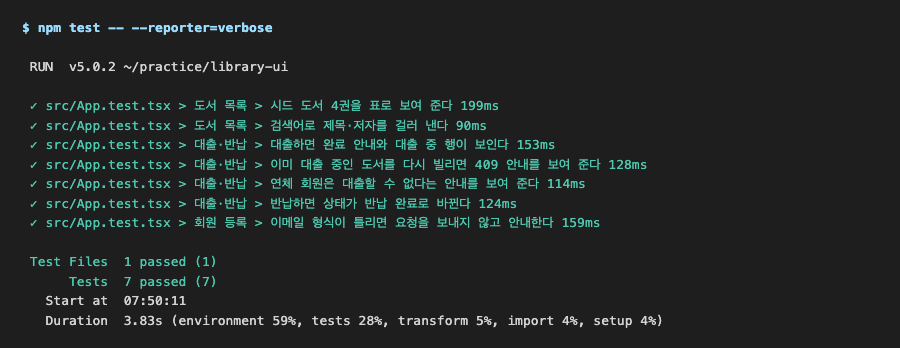
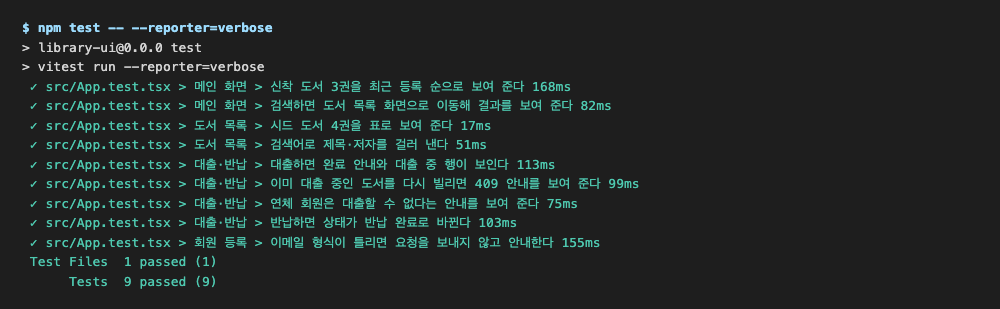
feat(java): 과제 2-2 메인 화면·검색 + 2-3 실제 API 캡처 (재검증)

Changed region(s): [[0.0311, 0.2621, 0.7467, 0.932], [0.0, 0.1456, 0.3422, 0.233], [0.0, 0.0583, 0.3111, 0.1165]]

diff --git a/wiki/guide-java-practice-library-merge.md b/wiki/guide-java-practice-library-merge.md
@@ -11,7 +11,7 @@ updated: 2026-09-29
 
 > **이 과제의 목표**: [[guide-java-practice-spring-library]](과제 2)의 Spring API와 [[guide-java-practice-library-ui]](과제 2-2)의 React 화면을 **하나의 서비스로 합칩니다.** 개발할 때는 두 서버를 띄워 Vite 프록시로 잇고, 화면에 필요한 API 하나를 Spring에 추가하고, 브라우저를 자동으로 조작하는 Playwright E2E 테스트로 흐름 전체를 지킵니다. 마지막에는 화면을 jar 안에 넣어 `java -jar` 하나로 UI와 API를 함께 서비스합니다.
 >
-> **선수 학습**: 과제 2의 `library` 프로젝트(포트 8090, `h2` 프로파일, 테스트 9개 통과)와 과제 2-2의 `library-ui` 프로젝트(목업 모드 동작, 테스트 7개 통과)가 같은 디렉터리 아래 형제로 있어야 합니다.
+> **선수 학습**: 과제 2의 `library` 프로젝트(포트 8090, `h2` 프로파일, 테스트 9개 통과)와 과제 2-2의 `library-ui` 프로젝트(목업 모드 동작, 테스트 9개 통과)가 같은 디렉터리 아래 형제로 있어야 합니다.
 
 ---
 
@@ -48,8 +48,8 @@ updated: 2026-09-29
 | M2 | 화면을 다른 출처에서 서비스하는 경우를 위해 `/api/**`에 한해 `http://localhost:5173`의 GET·POST를 허용하는 CORS 설정을 둡니다 | 사전 요청 200, 다른 출처 403 |
 | M3 | `GET /api/members/{id}/loans` — 회원의 대출 목록을 최신순(대출 번호 역순)으로, 반납 건까지 돌려줍니다. 없는 회원이면 404 `MEMBER_NOT_FOUND` | API 테스트 2개 |
 | M4 | 실제 API로 대출 → 중복 대출 → 반납 시나리오가 화면에서 동작하고, 409 안내가 과제 2-2의 한글 문구로 보입니다 | 화면 확인 |
-| M5 | Playwright E2E 테스트 3개(검색, 대출→409→반납, 연체)가 개발 모드와 jar 배포 양쪽에서 통과합니다. 여러 번 실행해도 결과가 같습니다 | `npx playwright test` |
-| M6 | `./mvnw package`가 화면을 빌드해 jar에 넣고, `java -jar` 하나로 `/`·`/loans`·`/members/new`(화면)와 `/api/**`(API)가 모두 8090에서 서비스됩니다 | curl 상태 코드 |
+| M5 | Playwright E2E 테스트 3개(메인 검색, 대출→409→반납, 연체)가 개발 모드와 jar 배포 양쪽에서 통과합니다. 여러 번 실행해도 결과가 같습니다 | `npx playwright test` |
+| M6 | `./mvnw package`가 화면을 빌드해 jar에 넣고, `java -jar` 하나로 `/`·`/books`·`/loans`·`/members/new`(화면)와 `/api/**`(API)가 모두 8090에서 서비스됩니다 | curl 상태 코드 |
 
 두 프로젝트의 최종 구조입니다. 이 과제에서 **추가하거나 바꾸는 파일에만** 표시를 붙였습니다.
 
@@ -491,21 +491,49 @@ npm run dev
   ➜  Network: use --host to expose
 ```
 
-과제 2-2의 `dev:mock`과 달리 `ready` 줄에 `mock`이 없습니다. 브라우저에서 `http://localhost:5173/loans`를 열고 회원 번호 `1`, 도서 `1. 이펙티브 자바`로 **대출**을 누릅니다.
+과제 2-2의 `dev:mock`과 달리 `ready` 줄에 `mock`이 없습니다. 먼저 화면이 H2의 데이터를 읽는지 확인하기 위해, 새 터미널에서 도서를 한 권 curl로 등록합니다. 목업에는 없는 도서입니다.
+
+```bash
+curl -s -w '\n%{http_code}\n' -X POST http://localhost:8090/api/books -H 'Content-Type: application/json' -d '{"isbn":"9791162242025","title":"모던 자바 인 액션","author":"라울-게이브리얼 우르마"}'
+```
+
+```text
+예상 결과
+{"id":5,"isbn":"9791162242025","title":"모던 자바 인 액션","author":"라울-게이브리얼 우르마"}
+201
+```
+
+> **Windows**: PowerShell에서는 1-2의 안내처럼 `curl.exe`로 실행합니다. JSON 따옴표가 번거로우면 Git Bash에서 실행하거나, Swagger UI(`http://localhost:8090/swagger-ui.html`)의 **도서 등록**으로 같은 본문을 보냅니다.
+
+브라우저에서 `http://localhost:5173/`을 엽니다.
+
+![실제 API와 연결된 메인 화면](assets/practice/merge/06-home-real.png)
+
+*그림 1. 실제 API 연결 메인 — 방금 curl로 등록한 5번 도서가 신착 도서 맨 앞에 보임*
+
+신착 도서 맨 앞의 "모던 자바 인 액션"은 curl로 Spring에 등록한 도서입니다. 화면 코드는 과제 2-2 그대로인데, 목업 대신 `GET /api/books`의 실제 응답으로 신착 도서를 골랐습니다. 메뉴 오른쪽에 "목업 데이터" 표시가 없는 것으로도 실제 API 모드임을 알 수 있습니다. 검색창에 `자바`를 넣고 **검색**을 누릅니다.
+
+![실제 API의 검색 결과](assets/practice/merge/07-search-real.png)
+
+*그림 2. 실제 API 검색 — `/books?keyword=자바`가 H2에서 3권을 찾음*
+
+목업에서는 2권이던 결과가 3권입니다. 검색어가 프록시를 거쳐 Spring의 `findByTitleContainingOrAuthorContaining`까지 전달돼, H2에 새로 들어간 5번 도서까지 찾았습니다.
+
+이제 대출 흐름을 확인합니다. `http://localhost:5173/loans`를 열고 회원 번호 `1`, 도서 `1. 이펙티브 자바`로 **대출**을 누릅니다.
 
 ![실제 API와 연결된 대출 화면](assets/practice/merge/01-integrated.png)
 
-*그림 1. 실제 API 연결 — 메뉴 오른쪽에 "목업 데이터" 표시가 없고, 대출 목록은 H2 DB의 데이터*
+*그림 3. 실제 API 연결 — 메뉴 오른쪽에 "목업 데이터" 표시가 없고, 대출 목록은 H2 DB의 데이터*
 
-화면 모양은 과제 2-2와 같지만, 대출 번호·날짜가 모두 Spring이 H2에 저장한 값입니다. 메뉴 오른쪽의 "목업 데이터" 표시가 사라진 것으로 실제 API 모드임을 알 수 있습니다. 같은 상태에서 **대출**을 한 번 더 누릅니다.
+화면 모양은 과제 2-2와 같지만, 대출 번호·날짜가 모두 Spring이 H2에 저장한 값입니다. 같은 상태에서 **대출**을 한 번 더 누릅니다.
 
 ![실제 API의 409 안내](assets/practice/merge/02-409-real.png)
 
-*그림 2. 중복 대출 — Spring이 돌려준 409 `BOOK_ALREADY_LOANED`를 화면이 한글 안내로 표시*
+*그림 4. 중복 대출 — Spring이 돌려준 409 `BOOK_ALREADY_LOANED`를 화면이 한글 안내로 표시*
 
 이번 409는 목업이 아니라 과제 2의 `LoanService`가 R3 위반으로 던진 `LibraryException`이 `GlobalExceptionHandler`를 거쳐 나온 응답입니다. 목업과 실제 서버가 같은 `code`를 쓰기로 약속했기 때문에 화면 코드는 한 줄도 바꾸지 않았습니다. 이어서 대출 목록의 **반납**을 누르면 "반납 완료"로 바뀝니다.
 
-터미널 2에는 1단계에서 넣은 프록시 로그가 요청마다 찍혀 있습니다.
+터미널 2에는 1단계에서 넣은 프록시 로그가 요청마다 찍혀 있습니다. 아래는 `/loans`를 연 뒤의 줄만 옮긴 것입니다(그 앞에는 메인·검색 화면이 부른 `GET /api/books`, `GET /api/books?keyword=%EC%9E%90%EB%B0%94` 줄이 있습니다).
 
 ```text
 예상 결과
@@ -520,7 +548,7 @@ npm run dev
 
 ![프록시 로그](assets/practice/merge/03-proxy-log.png)
 
-*그림 3. 터미널 2의 프록시 로그 — 화면의 요청이 8090으로 전달되고 돌아온 상태 코드*
+*그림 5. 터미널 2의 프록시 로그 — 화면의 요청이 8090으로 전달되고 돌아온 상태 코드*
 
 한 줄이 요청 하나입니다. 대출(201) → 목록 갱신 → 중복 대출(409) → 반납(200) → 목록 갱신 순서가 화면에서 누른 순서와 같습니다. 첫 두 줄에서 `GET /api/books`가 두 번 나가는 것은 버그가 아닙니다 — 개발 모드의 React `StrictMode`는 부수 효과를 잘못 짠 코드를 드러내려고 `useEffect`를 일부러 두 번 실행합니다. 배포용 빌드에서는 한 번만 나갑니다.
 
@@ -537,7 +565,7 @@ npm run dev
 | 테스트 | 도구 | 무엇을 띄우나 | 무엇을 지키나 | 개수 |
 |------|------|------|------|------|
 | API 테스트 | JUnit + MockMvc | Spring 컨텍스트 (포트 없음) | 업무 규칙·상태 코드 | 11 |
-| 화면 테스트 | Vitest + Testing Library | jsdom + 목업 | 화면 동작·안내 문구 | 7 |
+| 화면 테스트 | Vitest + Testing Library | jsdom + 목업 | 화면 동작·안내 문구 | 9 |
 | E2E 테스트 | Playwright | 실제 브라우저 + 두 서버 | 화면과 API의 **약속**(경로·JSON 모양·오류 코드) | 3 |
 
 화면 테스트는 목업이 서버와 같다고 **가정**하고, API 테스트는 화면이 무엇을 부르는지 **모릅니다.** 둘 사이의 약속이 어긋나는 것(예: 서버가 `bookTitle`을 `title`로 바꿈)은 E2E만 잡을 수 있습니다.
@@ -571,19 +599,21 @@ export default defineConfig({
 })
 ```
 
-E2E 테스트 파일입니다. 요소는 Testing Library와 같은 방식(역할·라벨·보이는 글자)으로 찾습니다. 두 번째 테스트는 빌린 도서를 마지막에 반납하므로 **몇 번을 다시 실행해도** 같은 결과가 나옵니다 — 공유 DB를 쓰는 E2E 테스트는 자기가 바꾼 상태를 되돌려 놓아야 합니다. `'대출'` 버튼에 `exact: true`를 붙이는 이유는 "대출 목록 보기" 버튼도 이름에 "대출"을 포함하기 때문입니다.
+E2E 테스트 파일입니다. 요소는 Testing Library와 같은 방식(역할·라벨·보이는 글자)으로 찾습니다. 첫 번째 테스트는 메인(`/`)의 검색창에서 시작해 주소가 `/books?keyword=...`로 바뀌는지(`toHaveURL`)까지 확인합니다 — 화면 테스트가 `MemoryRouter`로 흉내 낸 주소 이동을 실제 브라우저에서 다시 지키는 것입니다. 두 번째 테스트는 빌린 도서를 마지막에 반납하므로 **몇 번을 다시 실행해도** 같은 결과가 나옵니다 — 공유 DB를 쓰는 E2E 테스트는 자기가 바꾼 상태를 되돌려 놓아야 합니다. `'대출'` 버튼에 `exact: true`를 붙이는 이유는 "대출 목록 보기" 버튼도 이름에 "대출"을 포함하기 때문입니다.
 
 **파일**: library-ui/e2e/library.spec.ts
 
 ```ts
 import { expect, test } from '@playwright/test'
 
-test('도서 검색 — 실제 API의 시드 도서를 보여 준다', async ({ page }) => {
-  await page.goto('/')
+test('메인 화면 검색 — 실제 API의 시드 도서를 걸러 보여 준다', async ({ page }) => {
+  await page.goto('/books')
   await expect(page.getByRole('row')).toHaveCount(5) // 머리글 1 + 시드 도서 4
+  await page.goto('/')
   await page.getByLabel('검색어').fill('자바')
   await page.getByRole('button', { name: '검색' }).click()
-  await expect(page.getByRole('row')).toHaveCount(3)
+  await expect(page).toHaveURL(/\/books\?keyword=/)
+  await expect(page.getByRole('row')).toHaveCount(3) // 머리글 1 + "자바" 도서 2
 })
 
 test('대출 → 중복 대출 409 → 반납', async ({ page }) => {
@@ -620,7 +650,7 @@ playwright-report/
 test-results/
 ```
 
-3단계의 두 서버가 떠 있는 상태에서 `library-ui`의 새 터미널로 E2E를 실행합니다.
+첫 번째 테스트는 시드 도서 4권을 기대합니다. 3단계에서 curl로 5번 도서를 등록했으므로, **터미널 1의 API를 `Ctrl+C`로 내렸다가 같은 명령으로 다시 띄워** 시드 상태로 돌립니다(`create-drop`이라 재시작하면 DB가 초기화됩니다). 터미널 2의 화면 개발 서버는 그대로 둡니다. 그다음 `library-ui`의 새 터미널에서 E2E를 실행합니다.
 
 ```bash
 npx playwright test
@@ -630,14 +660,14 @@ npx playwright test
 예상 결과
 Running 3 tests using 1 worker
 
-  ✓  1 e2e/library.spec.ts:3:1 › 도서 검색 — 실제 API의 시드 도서를 보여 준다 (992ms)
-  ✓  2 e2e/library.spec.ts:11:1 › 대출 → 중복 대출 409 → 반납 (624ms)
-  ✓  3 e2e/library.spec.ts:27:1 › 연체 회원 — 서버의 OVERDUE_MEMBER를 한글 안내로 보여 준다 (386ms)
+  ✓  1 e2e/library.spec.ts:3:1 › 메인 화면 검색 — 실제 API의 시드 도서를 걸러 보여 준다 (1.2s)
+  ✓  2 e2e/library.spec.ts:13:1 › 대출 → 중복 대출 409 → 반납 (923ms)
+  ✓  3 e2e/library.spec.ts:29:1 › 연체 회원 — 서버의 OVERDUE_MEMBER를 한글 안내로 보여 준다 (433ms)
 
-  3 passed (3.3s)
+  3 passed (3.8s)
 ```
 
-같은 명령을 한 번 더 실행해도 3개가 모두 통과해야 합니다(M5의 "여러 번 실행해도"). 첫 번째 테스트가 도서 4권을 기대하므로, 3단계에서 도서를 새로 등록했다면 터미널 1의 API를 재시작해 시드 상태로 돌린 뒤 실행합니다. HTML 리포트는 아래 명령으로 엽니다.
+같은 명령을 한 번 더 실행해도 3개가 모두 통과해야 합니다(M5의 "여러 번 실행해도"). 두 번째 테스트가 빌린 도서를 반납하고 끝나므로, 도서 수와 대출 가능 상태가 실행 전과 같게 남기 때문입니다. HTML 리포트는 아래 명령으로 엽니다.
 
 ```bash
 npx playwright show-report
@@ -645,7 +675,7 @@ npx playwright show-report
 
 ![Playwright HTML 리포트](assets/practice/merge/04-playwright-report.png)
 
-*그림 4. Playwright HTML 리포트 — 3개 테스트 모두 통과, 테스트마다 실행 시간*
+*그림 6. Playwright HTML 리포트 — 3개 테스트 모두 통과, 테스트마다 실행 시간*
 
 리포트에서 테스트 이름을 누르면 단계별(`goto` → `fill` → `click` → `expect`) 실행 내역이 보입니다. 테스트가 실패하면 그 시점의 화면 스크린샷과 오류 메시지가 함께 남아, 어느 단계에서 무엇이 달랐는지 바로 알 수 있습니다. 리포트 서버는 `Ctrl+C`로 내립니다.
 
@@ -720,7 +750,7 @@ Spring Boot는 클래스패스의 `static/` 디렉터리에 있는 파일을 그
 
 jar로 띄운 뒤 메뉴를 눌러 `/loans`로 이동하는 것은 문제가 없습니다. 화면 안에서 React Router가 주소만 바꾸고 서버에는 묻지 않기 때문입니다. 그런데 그 상태에서 **새로 고침**하거나 주소창에 `http://localhost:8090/loans`를 직접 치면, 브라우저가 서버에 `/loans`를 요청하고 Spring에는 그런 파일도 컨트롤러도 없어 404가 납니다. 개발 서버(Vite)는 모르는 주소에 `index.html`을 대신 주도록 되어 있어서 3단계에서는 드러나지 않았던 문제입니다.
 
-화면의 주소를 받아 `index.html`로 넘겨 주는 컨트롤러를 추가합니다. `forward:`는 브라우저 주소를 바꾸지 않고 서버 안에서 `/index.html`을 대신 내려 주므로, 화면이 뜬 뒤 React Router가 주소(`/loans`)를 보고 알맞은 페이지를 그립니다. 경로를 명시해 두면 `/api/...`나 오타 주소는 지금처럼 404로 남습니다.
+검색어가 붙은 `/books?keyword=자바`도 마찬가지입니다. `?` 뒤의 검색어는 경로가 아니므로 서버는 `/books`만 보고 판단합니다. 화면의 주소를 받아 `index.html`로 넘겨 주는 컨트롤러를 추가합니다. `forward:`는 브라우저 주소를 바꾸지 않고 서버 안에서 `/index.html`을 대신 내려 주므로, 화면이 뜬 뒤 React Router가 주소(`/loans`)를 보고 알맞은 페이지를 그립니다. 경로를 명시해 두면 `/api/...`나 오타 주소는 지금처럼 404로 남습니다.
 
 **파일**: library/src/main/java/dev/wonslab/library/controller/SpaForwardController.java
 
@@ -734,7 +764,7 @@ import org.springframework.web.bind.annotation.GetMapping;
 public class SpaForwardController {
 
     // React 라우터가 그리는 주소를 새로 고침하거나 직접 열면 index.html을 내려 준다 (/api는 해당 없음)
-    @GetMapping({"/loans", "/members/new"})
+    @GetMapping({"/books", "/loans", "/members/new"})
     public String forward() {
         return "forward:/index.html";
     }
@@ -758,7 +788,7 @@ cd library
 [INFO] --- exec:3.6.4:exec (build-ui) @ library ---
 > library-ui@0.0.0 build
 > tsc -b && vite build
-✓ built in 130ms
+✓ built in 780ms
 [INFO] --- resources:3.5.0:copy-resources (copy-ui) @ library ---
 [INFO] Copying 4 resources from ../library-ui/dist to target/classes/static
 [INFO] --- jar:3.5.1:jar (default-jar) @ library ---
@@ -776,8 +806,8 @@ jar tf target/library-0.0.1-SNAPSHOT.jar | grep static        # Windows: jar tf 
 BOOT-INF/classes/static/
 BOOT-INF/classes/static/assets/
 BOOT-INF/classes/static/index.html
-BOOT-INF/classes/static/assets/index-BQFwZa9v.css
-BOOT-INF/classes/static/assets/index-CiLgPCVB.js
+BOOT-INF/classes/static/assets/index-BmvtXgMr.css
+BOOT-INF/classes/static/assets/index-CXhSjJ8L.js
 BOOT-INF/classes/static/favicon.svg
 ```
 
@@ -790,12 +820,13 @@ java -jar target/library-0.0.1-SNAPSHOT.jar --spring.profiles.active=h2
 새 터미널에서 화면 주소와 API 주소가 모두 8090에서 응답하는지 확인합니다. `-w`는 상태 코드와 응답 형식만 출력하게 합니다.
 
 ```bash
-for p in / /loans /members/new /api/books /api/members/1/loans /nope; do echo "$p $(curl -s -o /dev/null -w '%{http_code} %{content_type}' http://localhost:8090$p)"; done
+for p in / /books /loans /members/new /api/books /api/members/1/loans /nope; do echo "$p $(curl -s -o /dev/null -w '%{http_code} %{content_type}' http://localhost:8090$p)"; done
 ```
 
 ```text
 예상 결과
 / 200 text/html
+/books 200 text/html
 /loans 200 text/html
 /members/new 200 text/html
 /api/books 200 application/json
@@ -805,11 +836,11 @@ for p in / /loans /members/new /api/books /api/members/1/loans /nope; do echo "$
 
 > **Windows**: 위 `for` 명령은 Git Bash에서 실행합니다. PowerShell에서는 `curl.exe -s -o NUL -w "%{http_code}" http://localhost:8090/loans`처럼 주소를 하나씩 확인합니다.
 
-화면 주소 3개는 `text/html`(같은 `index.html`), API 2개는 `application/json`, 없는 주소는 404입니다. 브라우저에서 `http://localhost:8090/members/new`를 **직접** 열고 회원을 한 명 가입시킵니다.
+화면 주소 4개는 `text/html`(같은 `index.html`), API 2개는 `application/json`, 없는 주소는 404입니다. 브라우저에서 `http://localhost:8090/members/new`를 **직접** 열고 회원을 한 명 가입시킵니다.
 
 ![jar 하나로 서비스되는 화면](assets/practice/merge/05-jar-8090.png)
 
-*그림 5. `java -jar`로 띄운 8090 — 주소를 직접 연 회원 등록 화면에서 가입 성공*
+*그림 7. `java -jar`로 띄운 8090 — 주소를 직접 연 회원 등록 화면에서 가입 성공*
 
 주소를 직접 열었는데도 화면이 뜨는 것은 5-1의 전달 컨트롤러 덕분이고, "3번 회원" 번호는 jar 안의 Spring이 H2에 저장한 값입니다. 화면과 API가 같은 출처(8090)이므로 프록시도 CORS도 쓰이지 않았습니다.
 
@@ -823,11 +854,11 @@ BASE_URL=http://localhost:8090 npx playwright test        # Windows(PowerShell):
 예상 결과
 Running 3 tests using 1 worker
 
-  ✓  1 e2e/library.spec.ts:3:1 › 도서 검색 — 실제 API의 시드 도서를 보여 준다 (403ms)
-  ✓  2 e2e/library.spec.ts:11:1 › 대출 → 중복 대출 409 → 반납 (405ms)
-  ✓  3 e2e/library.spec.ts:27:1 › 연체 회원 — 서버의 OVERDUE_MEMBER를 한글 안내로 보여 준다 (267ms)
+  ✓  1 e2e/library.spec.ts:3:1 › 메인 화면 검색 — 실제 API의 시드 도서를 걸러 보여 준다 (880ms)
+  ✓  2 e2e/library.spec.ts:13:1 › 대출 → 중복 대출 409 → 반납 (624ms)
+  ✓  3 e2e/library.spec.ts:29:1 › 연체 회원 — 서버의 OVERDUE_MEMBER를 한글 안내로 보여 준다 (344ms)
 
-  3 passed (1.7s)
+  3 passed (3.0s)
 ```
 
 개발 모드(5173 + 프록시)와 배포 모드(8090 jar)에서 같은 테스트가 통과하므로, 두 배치에서 화면이 똑같이 동작한다는 것이 확인됩니다. 확인이 끝나면 jar 터미널에서 `Ctrl+C`로 서버를 내립니다.
@@ -840,7 +871,7 @@ Running 3 tests using 1 worker
 | 대출 목록 보기에서 "서버에 연결할 수 없습니다", 프록시 로그는 `-> 404` | 2단계 API 추가 전 코드로 띄운 서버 — 404 본문이 과제 2의 오류 JSON이 아님 | 2단계 적용 후 API 재시작 |
 | `npm run dev -- --mode direct`에서 목록이 안 보이고 콘솔에 `blocked by CORS policy` | `CorsConfig` 없음, 또는 `allowedOrigins`와 화면 주소(포트 포함)가 다름 | 1-2 설정 확인, `http://localhost:5173`와 정확히 일치시킴 |
 | Playwright `Executable doesn't exist ... chromium` | 테스트용 브라우저 미설치 | `npx playwright install chromium` |
-| E2E 첫 테스트가 `Expected: 5, Received: 6`처럼 행 수 불일치 | 앞서 도서를 등록해 DB가 시드 상태가 아님 | API 재시작 후 다시 실행 |
+| E2E 첫 테스트가 `Expected: 5, Received: 6`처럼 행 수 불일치 | 3단계에서 curl로 도서를 등록해 DB가 시드 상태가 아님 | API 재시작 후 다시 실행 |
 | `./mvnw package`에서 `Cannot run program "npm"` | PATH에 Node.js가 없거나(Windows는) `npm.cmd` 이름 문제 | `node -v` 확인, Windows는 `<executable>npm.cmd</executable>` |
 | `./mvnw package`의 `build-ui`에서 `npm error ... package.json`(또는 `Missing script: "build"`) 후 `Command execution failed` | `library-ui`가 `library`의 형제 위치에 없어 npm이 엉뚱한 디렉터리에서 실행됨 | 두 디렉터리를 같은 부모 아래에 둠 (`../library-ui`) |
 | jar에서 `/`는 되는데 `/loans` 새로 고침이 404 | `SpaForwardController` 누락, 또는 새 화면 주소를 목록에 추가하지 않음 | 5-1 확인 |

diff --git a/wiki/log.md b/wiki/log.md
@@ -4,6 +4,10 @@ title: Wons Wiki 로그
 
 # Wiki Log
 
+## [2026-09-29] feat+verify | 과제 2-2 메인 화면·검색 추가 + 과제 2-3 실제 API 캡처 / 과제 2-4(네이버) 보류
+- 사용자 지적("메인화면·검색 캡처가 없다") → 2-2에 메인 화면(`/`: 소개·검색창·신착 도서·바로가기) 추가, 도서 목록은 `/books?keyword=`로 이동. Vitest 7→9. 2-3은 SpaForwardController에 `/books`, Playwright 첫 시나리오를 메인 검색→결과로. 페이지 코드 재추출로 전 단계 재검증. 캡처 4장 추가(목업 메인·검색, 실제 API 메인·검색).
+- **과제 2-4(네이버 책 검색) 보류**: 실측 중 `/v1/search/book.json`이 404 `SE05`(같은 키로 블로그 검색은 200) → 네이버 공지로 확인한 결과 책·쇼핑·전문자료 검색 API가 **2026-07-31 종료**, 대체 API 없음. 알라딘 OpenAPI도 2026-10-30 종료 예정. 사용자 결정으로 **카카오 책 검색(v3)**으로 재작성 예정 — 네이버판 초안은 게시하지 않음.
+
 ## [2026-09-29] feat+verify | 과제 2-2 도서 대여 화면 + 과제 2-3 API·화면 병합 (실행 검증·스크린샷)
 - [[guide-java-practice-library-ui]] (1101줄): React 19 + Vite 8 + TS 6 + Tailwind 4 + react-router, `LibraryApi` 인터페이스로 실제 서버/목업(`npm run dev:mock`) 교체, 오류 코드 → 한글 안내, Vitest 7개. 스샷 4장(`raw/assets/practice/ui/`).
 - [[guide-java-practice-library-merge]] (893줄): API 추가 `GET /api/members/{id}/loans`(+테스트 2, 총 11), Vite 프록시(권장)·CORS(`WebMvcConfigurer`) 병기, 실제 대출 201→409→반납 200, Playwright 3 spec(2회 연속 통과), exec-maven-plugin + resources 복사로 한 jar 배포 + SPA 새로고침 대응. 스샷 5장(`raw/assets/practice/merge/`).

diff --git a/wiki/guide-java-track4-spring-web.md b/wiki/guide-java-track4-spring-web.md
@@ -123,4 +123,4 @@ updated: 2026-09-29
 - [[concept-db-connection-pool]] · [[concept-varchar-length-prefix]] — DB 운영 함정
 - [[concept-api-versioning]] · [[concept-api-backward-compatibility]] — API 진화
 - [[guide-java-track3-io-network]] · [[guide-java-track5-deep-dive]] — 이전·다음 트랙
-- [[guide-java-practice-library-ui]] · [[guide-java-practice-library-merge]] — 과제 2 이어서: 화면 만들기와 API 병합
+- [[guide-java-practice-library-ui]] · [[guide-java-practice-library-merge]] — 과제 2 이어서: 화면 만들기, API 병합

diff --git a/wiki/concept-api-backward-compatibility.md b/wiki/concept-api-backward-compatibility.md
@@ -8,7 +8,7 @@ external:
   - https://www.youtube.com/watch?v=LBWefG5zjxk
   - https://martinfowler.com/bliki/TolerantReader.html
 created: 2026-06-06
-updated: 2026-09-28
+updated: 2026-09-29
 ---
 
 # API 하위 호환성과 JSON Tolerant Reader 계약
